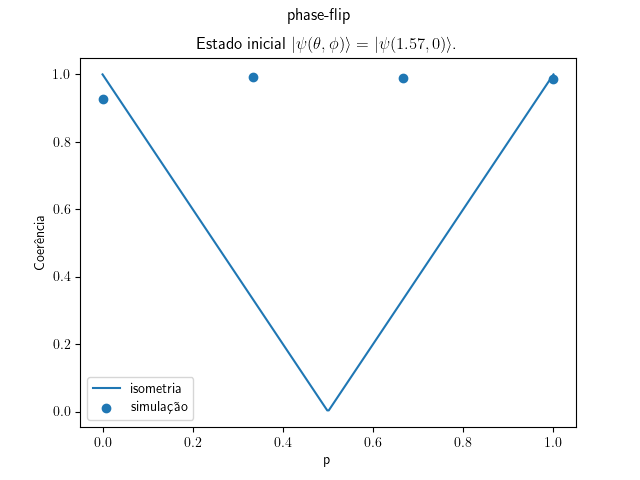
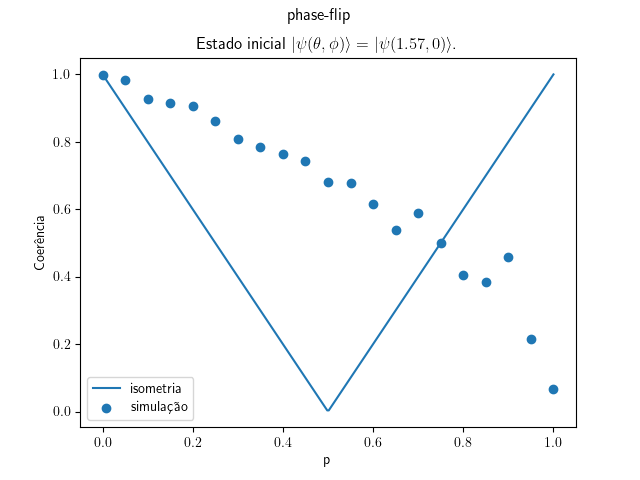
realizando os gráficos das simulações não markovianas

diff --git a/graficos_markovianos.py b/graficos_markovianos.py
@@ -14,48 +14,50 @@ ph = np.pi/2
 #yb = a.bpf(xb, th, ph)
 
 
-# a.plot_theoric(x1,'ad',theta=pi/2,phi=0,descript='Amplitude Damping')
+a.plot_theoric(x1,'ad',theta=pi/2,phi=0,descript='Amplitude Damping')
 a.plot_storaged('ad',False)
 plt.legend(loc=1)
 plt.show()
 
-# a.plot_theoric(x1,'pd',theta=pi/2,phi=0,descript='Phase-Damping')
+a.plot_theoric(x1,'pd',theta=pi/2,phi=0,descript='Phase-Damping')
 a.plot_storaged('pd',False)
 plt.legend(loc=1)
 plt.show()
 
 # 
-# a.plot_theoric(x1,'adg',theta=pi/2,phi=0,descript='Amplitude damping generalizado')
+a.plot_theoric(x1,'adg',theta=pi/2,phi=0,descript='Amplitude damping generalizado')
 a.plot_storaged('adg',False)
 plt.legend(loc=1)
 plt.show()
 
-# a.plot_theoric(x1,'bf',theta=pi/2,phi=pi/2,descript='Bit-Flip')
+a.plot_theoric(x1,'bf',theta=pi/2,phi=pi/2,descript='Bit-Flip')
 a.plot_storaged('bf',False)
 plt.legend(loc=1)
 plt.show()
 
-# a.plot_theoric(x1,'pf',theta=pi/2,phi=0,descript='Phase-Flip')
-#a.plot_storaged('pf',False)
+a.plot_theoric(x1,'pf',theta=pi/2,phi=0,descript='Phase-Flip')
+a.plot_storaged('pf',False)
 plt.legend(loc=1)
-# plt.show()
+plt.show()
 
-# a.plot_theoric(x1,'bpf',theta=pi/2,phi=0.0,descript='Bit-Phase-Flip')
+a.plot_theoric(x1,'bpf',theta=pi/2,phi=0.0,descript='Bit-Phase-Flip')
 a.plot_storaged('bpf',False)
 plt.legend(loc=1)
 plt.show()
 #s.exit()
-#a.plot_theoric(x1,'d',theta=pi/2,phi=0,descript='Depolarizing')
+
+a.plot_theoric(x1,'d',theta=pi/2,phi=0,descript='Depolarizing')
 a.plot_storaged('d',False)
 plt.legend(loc=1)
 plt.show()
-# a.plot_theoric(x1,'l',theta=pi/2,phi=0,descript='Lorentz')
+
+a.plot_theoric(x1,'l',theta=pi/2,phi=0,descript='Lorentz')
 a.plot_storaged('l',False)
 plt.legend(loc=1)
 plt.show()
 
 #plt.show()
-# a.plot_theoric(x1,'hw',theta=pi/2,phi=0,descript='H-W dephasing')
+a.plot_theoric(x1,'hw',theta=pi/2,phi=0,descript='H-W dephasing')
 a.plot_storaged('h',False)
 plt.legend(loc=1)
 
